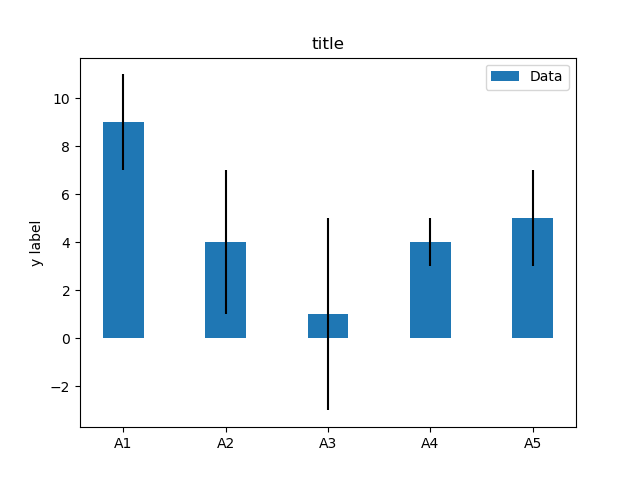
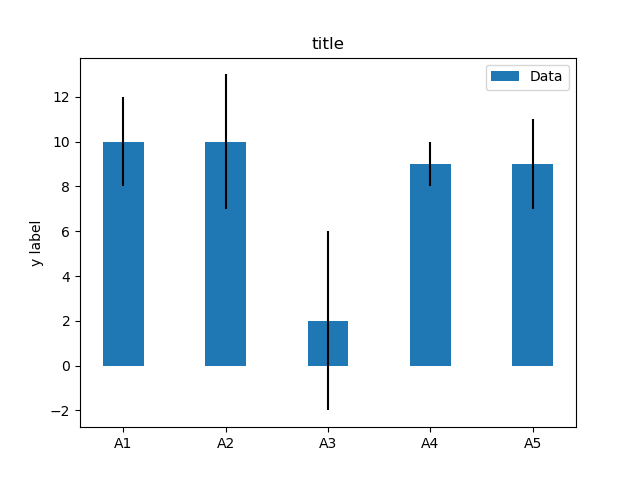
first commit

diff --git a/example.py b/example.py
@@ -2,7 +2,7 @@ import numpy as np
 import matplotlib.pyplot as plt
 
 labels = ['A1', 'A2', 'A3', 'A4', 'A5']
-m_means = [9,4,1,4,5]
+m_means = [10,10,2,9,9]
 m_std = [2, 3, 4, 1, 2]
 width = 0.40       # the width of the bars
 

diff --git a/README.md b/README.md
@@ -1,4 +1,4 @@
-# Matplotlib no 182 
+# Matplotlib no 183 
 
 python example
 
